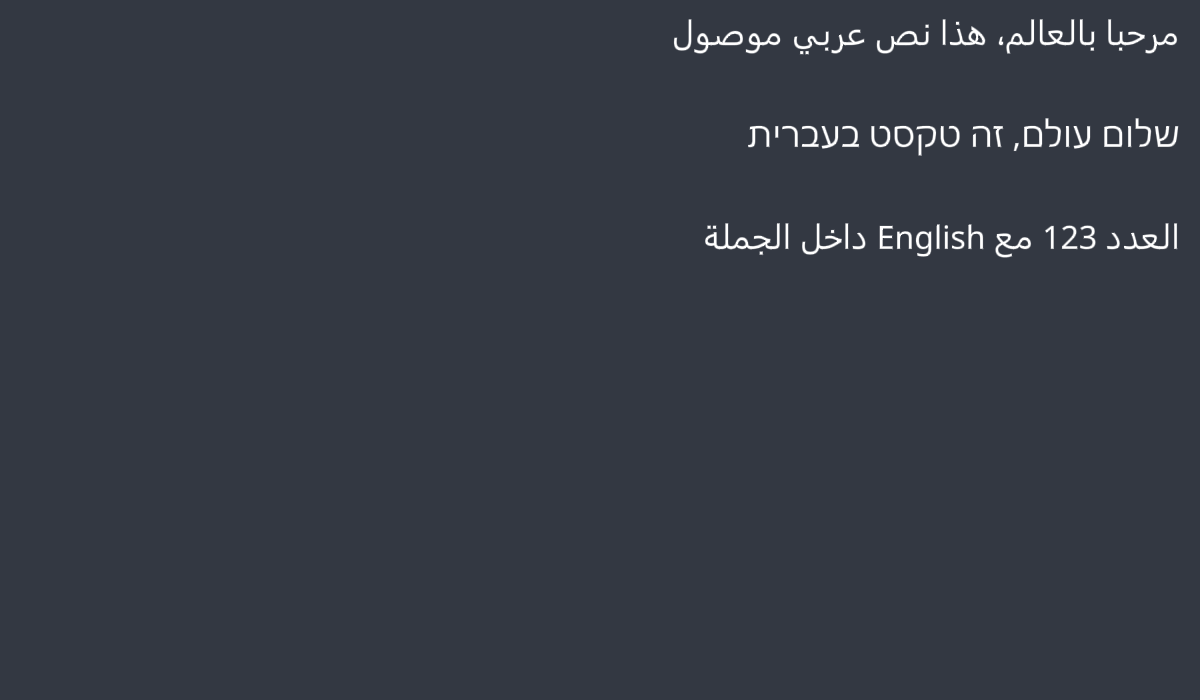
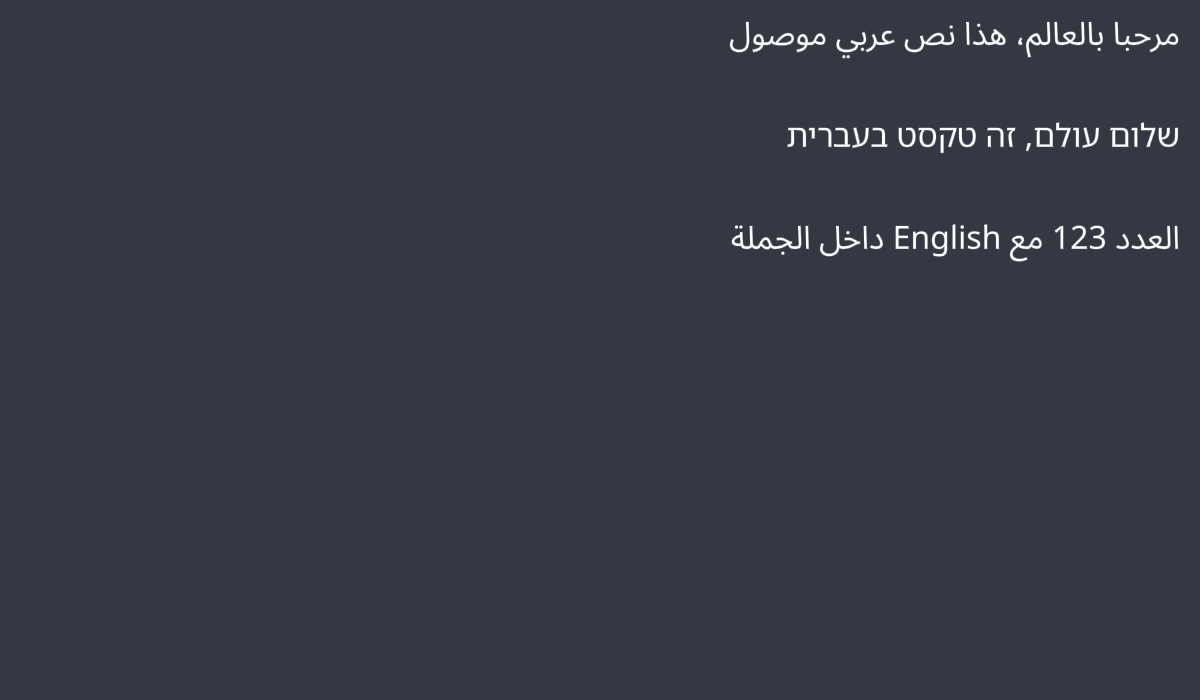
Comparison pictures redrawn with Noto fonts only on both engines; the harness fixes the font choice (-sheetfonts), report and third-party notes say so

Changed region(s): [[0.555, 0.03, 0.9867, 0.09], [0.5858, 0.3, 0.9867, 0.39], [0.6167, 0.18, 0.9867, 0.21]]

diff --git a/Documentation~/compare/LetteraCompare.cs b/Documentation~/compare/LetteraCompare.cs
@@ -76,7 +76,17 @@ public class LetteraCompare : MonoBehaviour
 
         public void SetText(Component c, string text) => ((LetteraText)c).SetText(text);
         public void ForceAll(IReadOnlyList<Component> all) { foreach (Component c in all) Force(c); }
-        public void Fallbacks() { }
+        public void Fallbacks()
+        {
+            string folder = SheetFontsFolder;
+            if (folder == null || s_LetteraStack != null) return;
+            RequireSheetFonts(folder);
+            LetteraSettings.Instance.DisableSystemFontFallback = true;
+            s_LetteraStack = ScriptableObject.CreateInstance<LetteraFontStack>();
+            foreach (string name in SheetFonts)
+                s_LetteraStack.Families.Add(new LetteraFontFamily { Primary = LetteraFont.CreateFromFile(Path.Combine(folder, name)) });
+            s_LetteraStack.Families.Add(new LetteraFontFamily { Primary = LetteraFont.CreateFromFile<LetteraColorFont>(Path.Combine(folder, SheetColorEmoji)) });
+        }
 
         public Component Field(Transform parent, string text, float size, Vector2 box)
         {
@@ -102,6 +112,7 @@ public class LetteraCompare : MonoBehaviour
             var label = go.AddComponent<LetteraText>();
             label.raycastTarget = false;
             label.Font = s_LetteraFont;
+            if (s_LetteraStack != null) label.FontStack = s_LetteraStack;
             label.FontSize = size;
             label.Text = text;
             return label;
@@ -191,6 +202,15 @@ public class LetteraCompare : MonoBehaviour
         public void Fallbacks()
         {
             s_TmpFont.fallbackFontAssetTable = new List<TMP_FontAsset>();
+            string folder = SheetFontsFolder;
+            if (folder != null)
+            {
+                // TextMesh Pro draws no colour fonts, so it gets Noto's single-colour emoji font where Lettera has the coloured one.
+                RequireSheetFonts(folder);
+                foreach (string name in SheetFonts.Append(SheetMonoEmoji))
+                    s_TmpFont.fallbackFontAssetTable.Add(TMP_FontAsset.CreateFontAsset(Path.Combine(folder, name), 0, 90, 9, UnityEngine.TextCore.LowLevel.GlyphRenderMode.SDFAA, 2048, 2048));
+                return;
+            }
             foreach ((string family, string style) in new[] { ("Segoe UI", "Regular"), ("Nirmala UI", "Regular"), ("Leelawadee UI", "Regular"), ("Microsoft YaHei", "Regular"), ("Yu Gothic", "Regular"), ("Malgun Gothic", "Regular"), ("Segoe UI Emoji", "Regular") })
             {
                 TMP_FontAsset font = TMP_FontAsset.CreateFontAsset(family, style);
@@ -283,6 +303,24 @@ public class LetteraCompare : MonoBehaviour
     }
 
     static LetteraFont s_LetteraFont;
+    static LetteraFontStack s_LetteraStack;
+
+    // The pictures use these fonts and no others, on both engines, so that no operating-system font shows in them. All are Noto, under the SIL Open Font License.
+    // -sheetfonts <folder> holds the files; the sheets stop if one is missing.
+    static readonly string[] SheetFonts =
+    {
+        "NotoSansArabic-Regular.ttf", "NotoSansHebrew-Regular.ttf", "NotoSansDevanagari-Regular.ttf", "NotoSansBengali-Regular.ttf",
+        "NotoSansTamil-Regular.ttf", "NotoSansThai-Regular.ttf", "NotoSansCJKsc-Regular.otf",
+    };
+    const string SheetColorEmoji = "NotoColorEmoji-Regular.ttf";
+    const string SheetMonoEmoji = "NotoEmoji-Regular.ttf";
+    static string SheetFontsFolder => Arg("-sheets") == null ? null : Arg("-sheetfonts");
+
+    static void RequireSheetFonts(string folder)
+    {
+        foreach (string name in SheetFonts.Append(SheetColorEmoji).Append(SheetMonoEmoji))
+            if (!File.Exists(Path.Combine(folder, name))) throw new FileNotFoundException("The sheets need this font in -sheetfonts: " + name);
+    }
     static TMP_FontAsset s_TmpFont;
     static readonly ProfilerRecorder s_Gc = ProfilerRecorder.StartNew(ProfilerCategory.Memory, "GC Allocated In Frame");
     static readonly FrameTiming[] s_Timing = new FrameTiming[1];
@@ -394,7 +432,7 @@ public class LetteraCompare : MonoBehaviour
         var clock = Stopwatch.StartNew();
         m_Engine.LoadFont(path);
         Say("prepare_font", clock.Elapsed.TotalMilliseconds);
-        if (m_Name == "tmp-fallback") m_Engine.Fallbacks();
+        if (m_Name == "tmp-fallback" || (m_Name == "lettera" && SheetFontsFolder != null)) m_Engine.Fallbacks();
     }
 
     void Say(string row, double ms, long bytes = -1, string note = "")

diff --git a/Documentation~/compare/report.py b/Documentation~/compare/report.py
@@ -238,7 +238,7 @@ Each cell is Yes, With setup, Partly or No. A sheet (S) or a named test stands b
 
 ## Sheets
 
-The same scene in each engine, at 1200 × 700. Lettera on the left, TextMesh Pro on the right. System fonts on Windows drew what Noto Sans does not hold.
+The same scene in each engine, at 1200 × 700. Lettera on the left, TextMesh Pro on the right. Every picture is drawn with Noto fonts only, on both engines and the same on both: Noto Sans, Noto Sans Arabic, Hebrew, Devanagari, Bengali, Tamil and Thai, Noto Sans CJK SC, and for emoji Noto Color Emoji on Lettera and Noto Emoji, its single-colour face, on TextMesh Pro, which draws no colour fonts. All are under the SIL Open Font License 1.1; no operating-system font is used, and none of these fonts ships in the package.
 
 {sheets}
 
@@ -263,7 +263,7 @@ The same scene in each engine, at 1200 × 700. Lettera on the left, TextMesh Pro
 ## Run it yourself
 
 ```
-python compare.py <Unity.exe> <path to this package> <work folder> 5
+python compare.py <Unity.exe> <path to this package> <work folder> 5 --sheet-fonts <folder of the Noto fonts>
 python report.py <work folder>
 ```
 """
@@ -319,7 +319,7 @@ R12 замеряет только работу: арабский у TextMesh Pro
 
 ## Листы
 
-Одна и та же сцена в каждом движке, 1200 × 700. Слева Lettera, справа TextMesh Pro. То, чего нет в Noto Sans, нарисовано системными шрифтами Windows.
+Одна и та же сцена в каждом движке, 1200 × 700. Слева Lettera, справа TextMesh Pro. Все картинки нарисованы только шрифтами Noto, на обоих движках одними и теми же: Noto Sans, Noto Sans Arabic, Hebrew, Devanagari, Bengali, Tamil и Thai, Noto Sans CJK SC, а для эмодзи Noto Color Emoji у Lettera и Noto Emoji, его одноцветная гарнитура, у TextMesh Pro, который цветные шрифты не рисует. Все они под SIL Open Font License 1.1; системные шрифты не используются, и ни один из этих шрифтов не входит в пакет.
 
 {sheets}
 
@@ -344,7 +344,7 @@ R12 замеряет только работу: арабский у TextMesh Pro
 ## Запустить самому
 
 ```
-python compare.py <Unity.exe> <путь к этому пакету> <рабочая папка> 5
+python compare.py <Unity.exe> <путь к этому пакету> <рабочая папка> 5 --sheet-fonts <папка со шрифтами Noto>
 python report.py <рабочая папка>
 ```
 """

diff --git a/Documentation~/compare/compare.py b/Documentation~/compare/compare.py
@@ -1,5 +1,5 @@
 """Runs the comparison with TextMesh Pro and writes its tables.
-usage: python compare.py <unity.exe> <lettera package path> <work folder> [rounds] [--backends mono,il2cpp] [--engines a,b,c] [--extra folder] [--no-sheets] [--fresh]
+usage: python compare.py <unity.exe> <lettera package path> <work folder> [rounds] [--backends mono,il2cpp] [--engines a,b,c] [--extra folder] [--no-sheets | --sheet-fonts folder] [--fresh]
 Makes a project of its own, builds Windows players, and runs each engine in turns, a cold start each. Nothing else should be running.
 Results land per run in <work>/Out/<backend>/runs, so that a run stopped halfway goes on from where it was. --fresh starts over.
 --extra copies that folder's scripts into the project: another engine can add itself to LetteraCompare.External and be named in --engines."""
@@ -14,6 +14,7 @@ parser.add_argument("--backends", default="mono")
 parser.add_argument("--engines", default="lettera,tmp-static,tmp-dynamic")
 parser.add_argument("--extra")
 parser.add_argument("--no-sheets", action="store_true")
+parser.add_argument("--sheet-fonts", help="folder with the Noto fonts the pictures use (see SheetFonts in LetteraCompare.cs); required unless --no-sheets")
 parser.add_argument("--fresh", action="store_true")
 parser.add_argument("--build-only", action="store_true")
 parser.add_argument("--dev-rounds", type=int, default=None)
@@ -311,8 +312,10 @@ SHEETS = ENGINES + (["tmp-fallback"] if "tmp-dynamic" in ENGINES else [])
 
 
 def sheets(release):
+    if not args.sheet_fonts:
+        sys.exit("The pictures need --sheet-fonts <folder of Noto fonts>; no operating-system font may show in them.")
     for engine in SHEETS:
-        process = Player([release, "-screen-width", "1200", "-screen-height", "700", "-screen-fullscreen", "0", "-logFile", os.path.join(OUT, engine + "_sheets.log"), "-compare", engine, "-fonts", FONTS, "-sheets", os.path.join(WORK, "sheets")])
+        process = Player([release, "-screen-width", "1200", "-screen-height", "700", "-screen-fullscreen", "0", "-logFile", os.path.join(OUT, engine + "_sheets.log"), "-compare", engine, "-fonts", FONTS, "-sheets", os.path.join(WORK, "sheets"), "-sheetfonts", args.sheet_fonts])
         process.wait(300)
         print("sheets", engine, process.returncode, flush=True)
 

diff --git a/THIRD-PARTY-NOTICES.md b/THIRD-PARTY-NOTICES.md
@@ -63,6 +63,8 @@ PROVIDE MAINTENANCE, SUPPORT, UPDATES, ENHANCEMENTS, OR MODIFICATIONS.
 
 `Runtime/Resources/Lettera/LetteraWebFont.asset` holds Noto Sans, which ships in player builds as the web's default font. `Tests/Fonts~` holds Noto Sans, Noto Sans Arabic, Noto Sans Hebrew and Noto Sans Devanagari, used only by the tests. https://fonts.google.com/noto
 
+The pictures in `Documentation~/comparison` were drawn with Noto Sans, Noto Sans Arabic, Hebrew, Devanagari, Bengali, Tamil and Thai, Noto Sans CJK SC, Noto Color Emoji and Noto Emoji, all under the SIL Open Font License 1.1. Those fonts are not part of the package; `Documentation~/compare` names them.
+
 ```
 Copyright 2018 The Noto Project Authors (github.com/googlei18n/noto-fonts)
 
